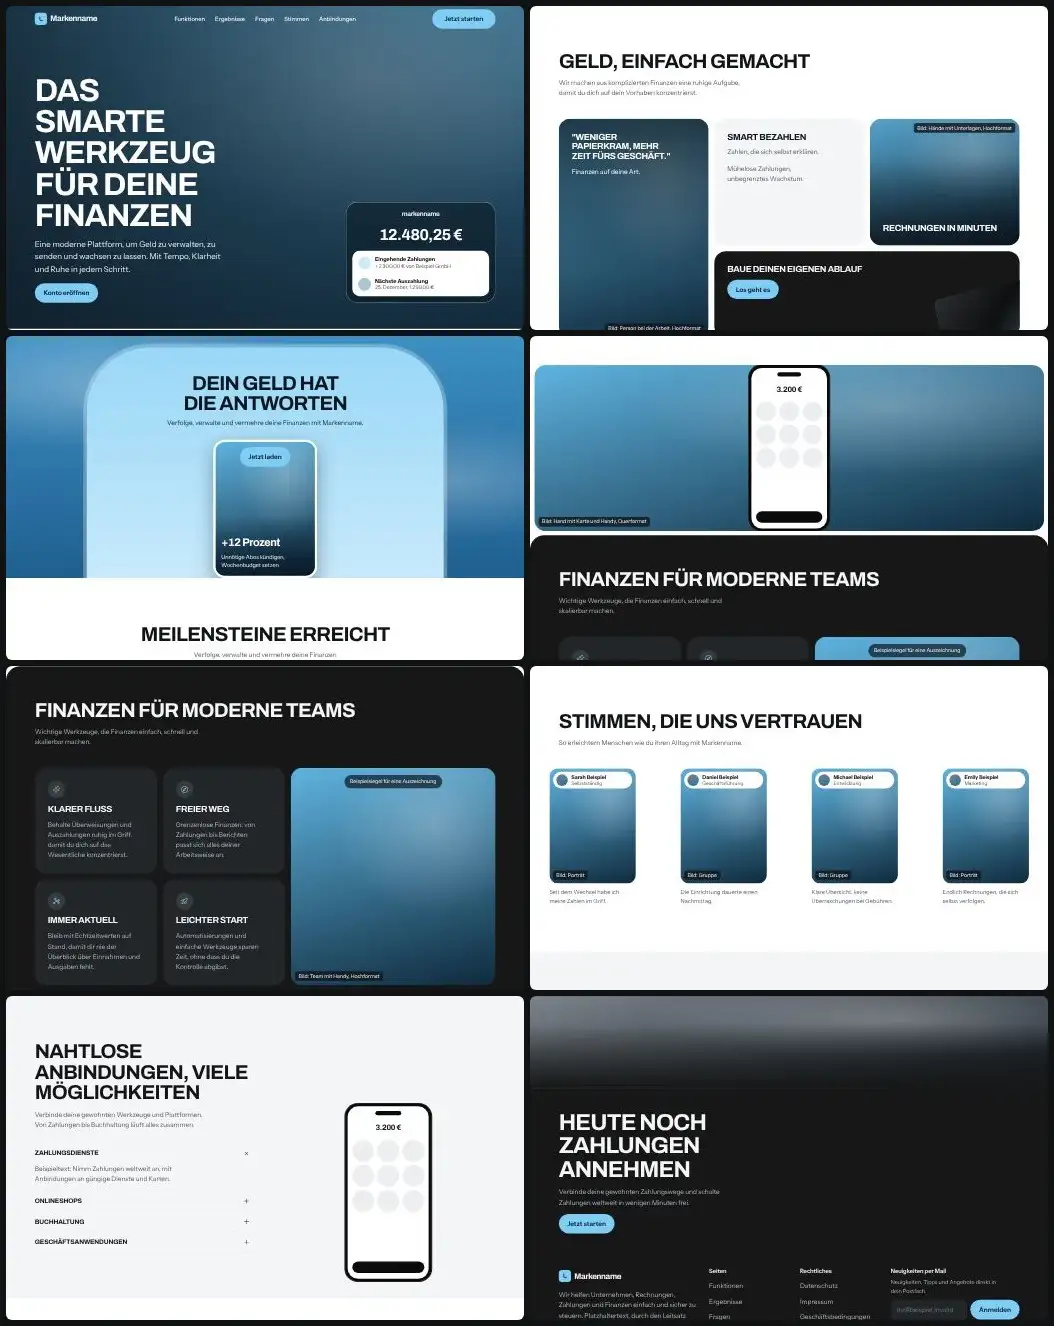
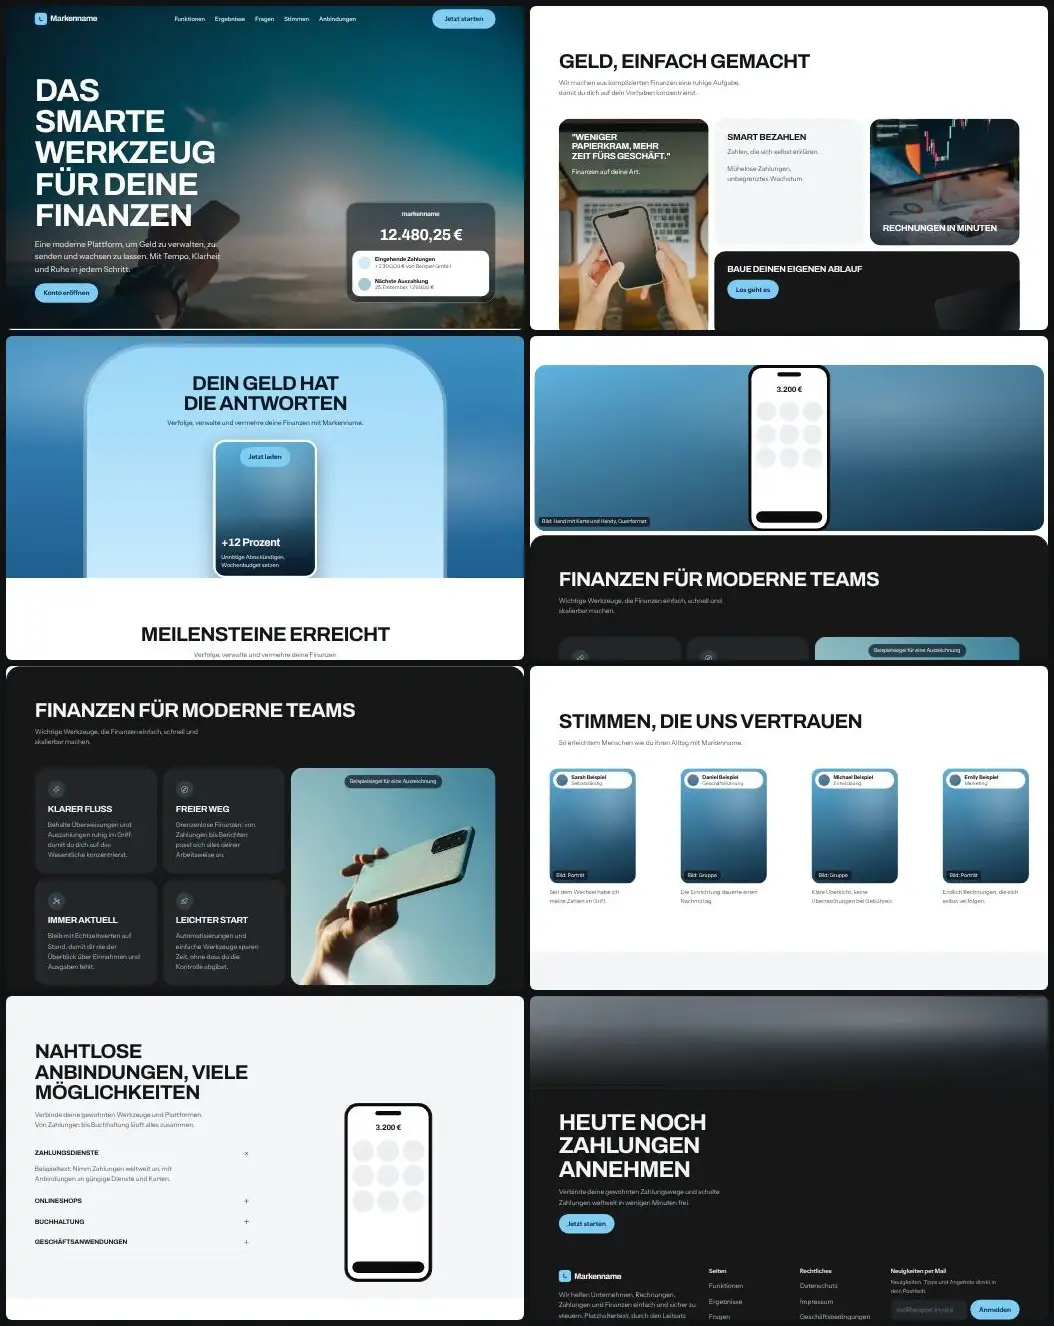
Bibliothek t39: Beispielfotos (Unsplash) eingebaut, Vorschaubilder neu erzeugt
Claude-Session: https://claude.ai/code/session_01DoGuL1bwF3ewggMgZ4Cpvd

diff --git a/skills/webdesign-conversion/assets/vorlagen/bibliothek/t39/index.html b/skills/webdesign-conversion/assets/vorlagen/bibliothek/t39/index.html
@@ -61,7 +61,7 @@
 <main id="inhalt">
   <!-- 1. Held: Vollbild im Dunkeln, Versalien, schwebende Kontokarte -->
   <section class="held" id="top" aria-labelledby="h-held">
-    <div class="bild held__bild" data-platzhalter="Bild: Person mit Handy vor Himmel, Querformat" role="img" aria-label="Platzhalter für ein Foto einer Person mit Handy" data-parallax="0.07"></div>
+    <div class="bild held__bild" data-parallax="0.07"><img src="bilder/handy-gegen-sonne.webp" width="1600" height="1067" alt="Hand hält ein Smartphone gegen die Morgensonne über Hügeln" loading="lazy" decoding="async"></div>
     <div class="held__schleier" aria-hidden="true"></div>
     <div class="wrap held__innen">
       <div class="held__text">
@@ -119,7 +119,7 @@
           <div class="bild karte__figur" data-platzhalter="Bild: Teammitglied freigestellt" role="img" aria-label="Platzhalter für ein Foto eines Teammitglieds"></div>
         </article>
         <article class="karte karte--bild bento__c" data-zeig>
-          <div class="bild karte__grund bild--k1" data-platzhalter="Bild: Zahlung am Terminal, Querformat" role="img" aria-label="Platzhalter für ein Foto einer Zahlung"></div>
+          <div class="bild karte__grund bild--k1"><img src="bilder/kartenzahlung-terminal.webp" width="1000" height="667" alt="Hand hält eine Karte an ein Kartenterminal" loading="lazy" decoding="async"></div>
           <div class="karte__text karte__text--unten"><h3>Kleine Beträge, langfristiges Wachstum</h3></div>
         </article>
       </div>
@@ -135,7 +135,7 @@
       </header>
       <div class="bento2" data-staffel>
         <article class="karte karte--bild bento2__a" data-zeig>
-          <div class="bild karte__grund bild--k2" data-platzhalter="Bild: Person bei der Arbeit, Hochformat" role="img" aria-label="Platzhalter für ein Foto einer arbeitenden Person"></div>
+          <div class="bild karte__grund bild--k2"><img src="bilder/handy-laptop-draufsicht.webp" width="1000" height="667" alt="Hände mit Smartphone vor einem Laptop auf einem Holztisch" loading="lazy" decoding="async"></div>
           <div class="karte__text karte__text--oben"><h3>"Weniger Papierkram, mehr Zeit fürs Geschäft."</h3><p>Finanzen auf deine Art.</p></div>
         </article>
         <article class="karte karte--hell bento2__b" data-zeig>
@@ -143,7 +143,7 @@
           <p class="karte__fuss">Mühelose Zahlungen, unbegrenztes Wachstum.</p>
         </article>
         <article class="karte karte--bild bento2__c" data-zeig>
-          <div class="bild karte__grund bild--k3" data-platzhalter="Bild: Hände mit Unterlagen, Hochformat" role="img" aria-label="Platzhalter für ein Foto von Händen mit Unterlagen"></div>
+          <div class="bild karte__grund bild--k3"><img src="bilder/taschenrechner-diagramme.webp" width="1000" height="667" alt="Hand zeigt auf einen Taschenrechner neben Diagrammen" loading="lazy" decoding="async"></div>
           <div class="karte__text karte__text--unten"><h3>Rechnungen in Minuten</h3></div>
         </article>
         <article class="karte karte--dunkel bento2__d" data-zeig>
@@ -217,7 +217,7 @@
           <li class="karte karte--dunkel2" data-zeig><span class="rund-symbol"><svg width="22" height="22" aria-hidden="true" focusable="false"><use href="#i-graph"/></svg></span><h3>Immer aktuell</h3><p>Bleib mit Echtzeitwerten auf Stand, damit dir nie der Überblick über Einnahmen und Ausgaben fehlt.</p></li>
           <li class="karte karte--dunkel2" data-zeig><span class="rund-symbol"><svg width="22" height="22" aria-hidden="true" focusable="false"><use href="#i-rocket-launch"/></svg></span><h3>Leichter Start</h3><p>Automatisierungen und einfache Werkzeuge sparen Zeit, ohne dass du die Kontrolle abgibst.</p></li>
         </ul>
-        <div class="bild power__bild" data-zeig="skala" data-platzhalter="Bild: Team mit Handy, Hochformat" role="img" aria-label="Platzhalter für ein Foto eines Teams mit Handy">
+        <div class="bild power__bild" data-zeig="skala"><img src="bilder/handy-vor-himmel.webp" width="1000" height="667" alt="Hand hält ein Smartphone vor blauem Himmel" loading="lazy" decoding="async">
           <p class="power__siegel" data-beispiel>Beispielsiegel für eine Auszeichnung</p>
         </div>
       </div>
@@ -288,15 +288,15 @@
   <!-- 12. Szene: Bilder wandern zusammen und wachsen zum Vollbild -->
   <section class="szene" id="start" aria-labelledby="h-szene" data-fortschritt>
     <div class="szene__buehne">
-      <div class="szene__kachel szene__kachel--1 bild bild--k1" style="--x:-34;--y:-12;--r:-6" data-platzhalter="Bild" role="img" aria-label="Platzhalter für ein Foto"></div>
-      <div class="szene__kachel szene__kachel--2 bild bild--k2" style="--x:0;--y:-26;--r:4" data-platzhalter="Bild" role="img" aria-label="Platzhalter für ein Foto"></div>
-      <div class="szene__kachel szene__kachel--3 bild bild--k3" style="--x:34;--y:-10;--r:-3" data-platzhalter="Bild" role="img" aria-label="Platzhalter für ein Foto"></div>
-      <div class="szene__kachel szene__kachel--4 bild bild--m1" style="--x:-36;--y:22;--r:5" data-platzhalter="Bild" role="img" aria-label="Platzhalter für ein Foto"></div>
-      <div class="szene__kachel szene__kachel--5 bild bild--m3" style="--x:-12;--y:30;--r:-4" data-platzhalter="Bild" role="img" aria-label="Platzhalter für ein Foto"></div>
-      <div class="szene__kachel szene__kachel--6 bild bild--s2" style="--x:14;--y:24;--r:6" data-platzhalter="Bild" role="img" aria-label="Platzhalter für ein Foto"></div>
-      <div class="szene__kachel szene__kachel--7 bild bild--s3" style="--x:36;--y:30;--r:-5" data-platzhalter="Bild" role="img" aria-label="Platzhalter für ein Foto"></div>
+      <div class="szene__kachel szene__kachel--1 bild bild--k1" style="--x:-34;--y:-12;--r:-6"><img src="bilder/laptop-holztisch-lampe.webp" width="600" height="390" alt="Laptop auf Holztisch neben Lampe und Pflanze" loading="lazy" decoding="async"></div>
+      <div class="szene__kachel szene__kachel--2 bild bild--k2" style="--x:0;--y:-26;--r:4"><img src="bilder/laptop-holztisch-tasse.webp" width="600" height="400" alt="Laptop auf Holztisch mit weißer Tasse" loading="lazy" decoding="async"></div>
+      <div class="szene__kachel szene__kachel--3 bild bild--k3" style="--x:34;--y:-10;--r:-3"><img src="bilder/schreibtisch-abendlicht.webp" width="600" height="400" alt="Schreibtisch mit Laptop im warmen Licht" loading="lazy" decoding="async"></div>
+      <div class="szene__kachel szene__kachel--4 bild bild--m1" style="--x:-36;--y:22;--r:5"><img src="bilder/smartphone-aussicht.webp" width="600" height="400" alt="Hand hält ein Smartphone vor einer Landschaft" loading="lazy" decoding="async"></div>
+      <div class="szene__kachel szene__kachel--5 bild bild--m3" style="--x:-12;--y:30;--r:-4"><img src="bilder/handy-hand-himmel.webp" width="600" height="340" alt="Hand mit Smartphone vor weitem Himmel" loading="lazy" decoding="async"></div>
+      <div class="szene__kachel szene__kachel--6 bild bild--s2" style="--x:14;--y:24;--r:6"><img src="bilder/schreibtisch-stifte-kaffee.webp" width="600" height="400" alt="Stifte, Kaffee und Pflanze auf dunklem Untergrund" loading="lazy" decoding="async"></div>
+      <div class="szene__kachel szene__kachel--7 bild bild--s3" style="--x:36;--y:30;--r:-5"><img src="bilder/kaffee-notizbuch.webp" width="600" height="400" alt="Kaffeetasse und Notizbuch auf Holz" loading="lazy" decoding="async"></div>
       <h2 class="szene__satz" id="h-szene">Wie auch immer du dein Geld <strong>bewegst</strong>, Markenname hilft dir, es zu <strong>verwalten</strong>, zu verfolgen und zu <strong>vermehren</strong>, ganz nach deinem Weg.</h2>
-      <div class="bild szene__gross" data-platzhalter="Bild: Zahlung am Küchentisch, Querformat" role="img" aria-label="Platzhalter für ein Foto einer Zahlung am Küchentisch"></div>
+      <div class="bild szene__gross"><img src="bilder/laptop-esstisch.webp" width="1600" height="1067" alt="Laptop und Notizbuch auf einem Esstisch in heller Wohnung" loading="lazy" decoding="async"></div>
     </div>
   </section>
 </main>

diff --git a/skills/webdesign-conversion/assets/vorlagen/bibliothek/t39/BILDER.md b/skills/webdesign-conversion/assets/vorlagen/bibliothek/t39/BILDER.md
@@ -1,0 +1,32 @@
+# Bilder t39
+
+Alle Fotos von Unsplash, abgerufen am 25.11.2026. Titel und Lizenz stehen so auf der Seite des Fotos (Titel von Unsplash automatisch vergeben), als Fotograf ist das Unsplash Profil angegeben, weil die Seite den Namen nur als Profillink zeigte. Lizenz ist jeweils die Unsplash Lizenz.
+
+| Datei | Platz | Foto Titel | Fotograf (Profil) | Seite | Lizenz | Abruf |
+|---|---|---|---|---|---|---|
+| handy-gegen-sonne.webp.webp | Hero | Person mit iPhone mit Blick auf Sonne und Hügel | soemoe3000 | https://unsplash.com/photos/RMsOejABMhM | Unsplash Lizenz | 25.11.2026 |
+| kartenzahlung-terminal.webp.webp | Karte Zahlung am Terminal | Eine Person, die eine leere Kreditkarte hält | towfiqu999999 | https://unsplash.com/photos/HNPrWOH2Z8U | Unsplash Lizenz | 25.11.2026 |
+| handy-laptop-draufsicht.webp.webp | Karte Person bei der Arbeit | Eine Person, die ein Handy vor einen Laptop hält | jakubzerdzicki | https://unsplash.com/photos/hWeL2BtinAk | Unsplash Lizenz | 25.11.2026 |
+| taschenrechner-diagramme.webp.webp | Karte Unterlagen | eine Person, die auf einen Taschenrechner zeigt | jakubzerdzicki | https://unsplash.com/photos/eGI0aGwuE-A | Unsplash Lizenz | 25.11.2026 |
+| handy-vor-himmel.webp.webp | Power, Team mit Handy | eine Person, die ein Mobiltelefon in die Luft hält | ziontech | https://unsplash.com/photos/vexEm67UnmM | Unsplash Lizenz | 25.11.2026 |
+| laptop-holztisch-lampe.webp.webp | Szene Kachel 1 | MacBook Pro auf braunem Holztisch | claybanks | https://unsplash.com/photos/s7IIk_2dA7g | Unsplash Lizenz | 25.11.2026 |
+| laptop-holztisch-tasse.webp.webp | Szene Kachel 2 | ein Laptop auf einem Holztisch | claybanks | https://unsplash.com/photos/ZWfOEaNfelY | Unsplash Lizenz | 25.11.2026 |
+| schreibtisch-abendlicht.webp.webp | Szene Kachel 3 | schwarz-silberner Laptop auf braunem Holztisch | nublson | https://unsplash.com/photos/9_AChhXcrc8 | Unsplash Lizenz | 25.11.2026 |
+| smartphone-aussicht.webp.webp | Szene Kachel 4 | grünes iPhone 5c an der Hand | socialcut | https://unsplash.com/photos/-EMnalWjeQ4 | Unsplash Lizenz | 25.11.2026 |
+| handy-hand-himmel.webp.webp | Szene Kachel 5 | eine Person, die ein Telefon hält | judahwester | https://unsplash.com/photos/-5eomdi3gyQ | Unsplash Lizenz | 25.11.2026 |
+| schreibtisch-stifte-kaffee.webp.webp | Szene Kachel 6 | Kaffee, Pflanze, Stifte und ein Lineal | kellysikkema | https://unsplash.com/photos/Qgm9Tk8BpWs | Unsplash Lizenz | 25.11.2026 |
+| kaffee-notizbuch.webp.webp | Szene Kachel 7 | Schokoladengetränk im Becher in der Nähe | sixteenmilesout | https://unsplash.com/photos/_47k56_LdDQ | Unsplash Lizenz | 25.11.2026 |
+| laptop-esstisch.webp.webp | Szene groß, Zahlung am Küchentisch | Ein Laptop auf einem Tisch | kellysikkema | https://unsplash.com/photos/7rq8zzRBWG0 | Unsplash Lizenz | 25.11.2026 |
+
+## Hinweise
+
+* Terminalfotos mit erkennbaren Anbieterlogos (Square, SumUp) sind bewusst nicht verwendet; das Terminal im Foto ist neutral.
+* Die Szene Kachel 3 bis 7 sind Atmosphäre ohne Bezug zu Zahlungen. Das Foto bei Power zeigt nur eine Hand mit Handy, kein Team.
+* Keine Erfolgs oder Renditebilder, keine Personen als Kunden.
+
+## Offen
+
+* Teammitglied freigestellt (Karte Lerne das Team kennen)
+* Porträt Bühne und drei Porträts bzw. Gruppenfotos in der Stimmenfolge
+* Meilensteine Karten (Zahlen auf Fläche, zwei Plätze)
+* Zahlung Hand mit Karte und Handy (Telefon Attrappe liegt darüber)
